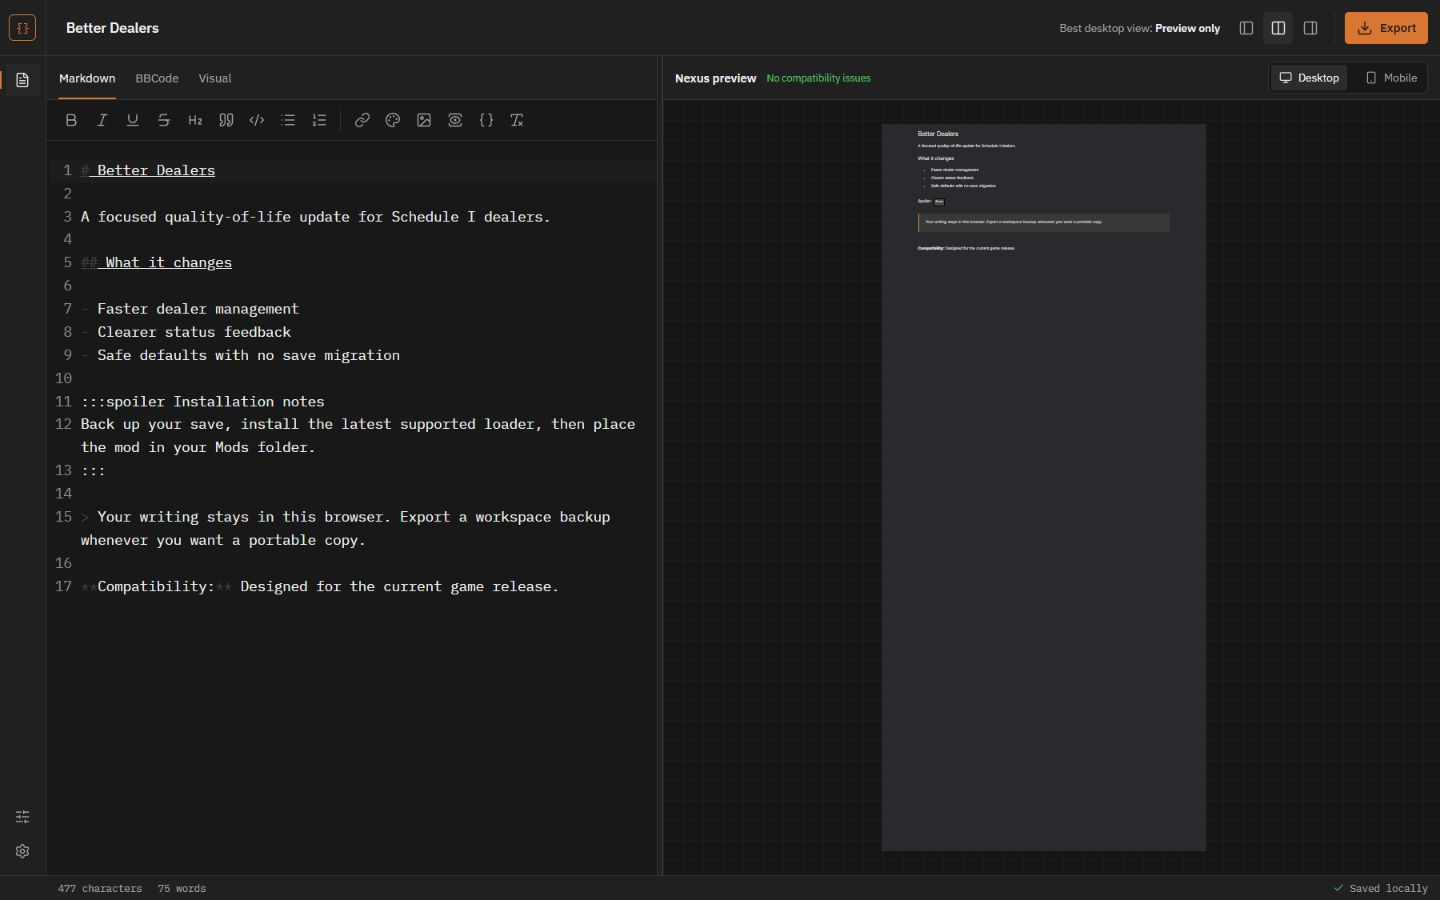
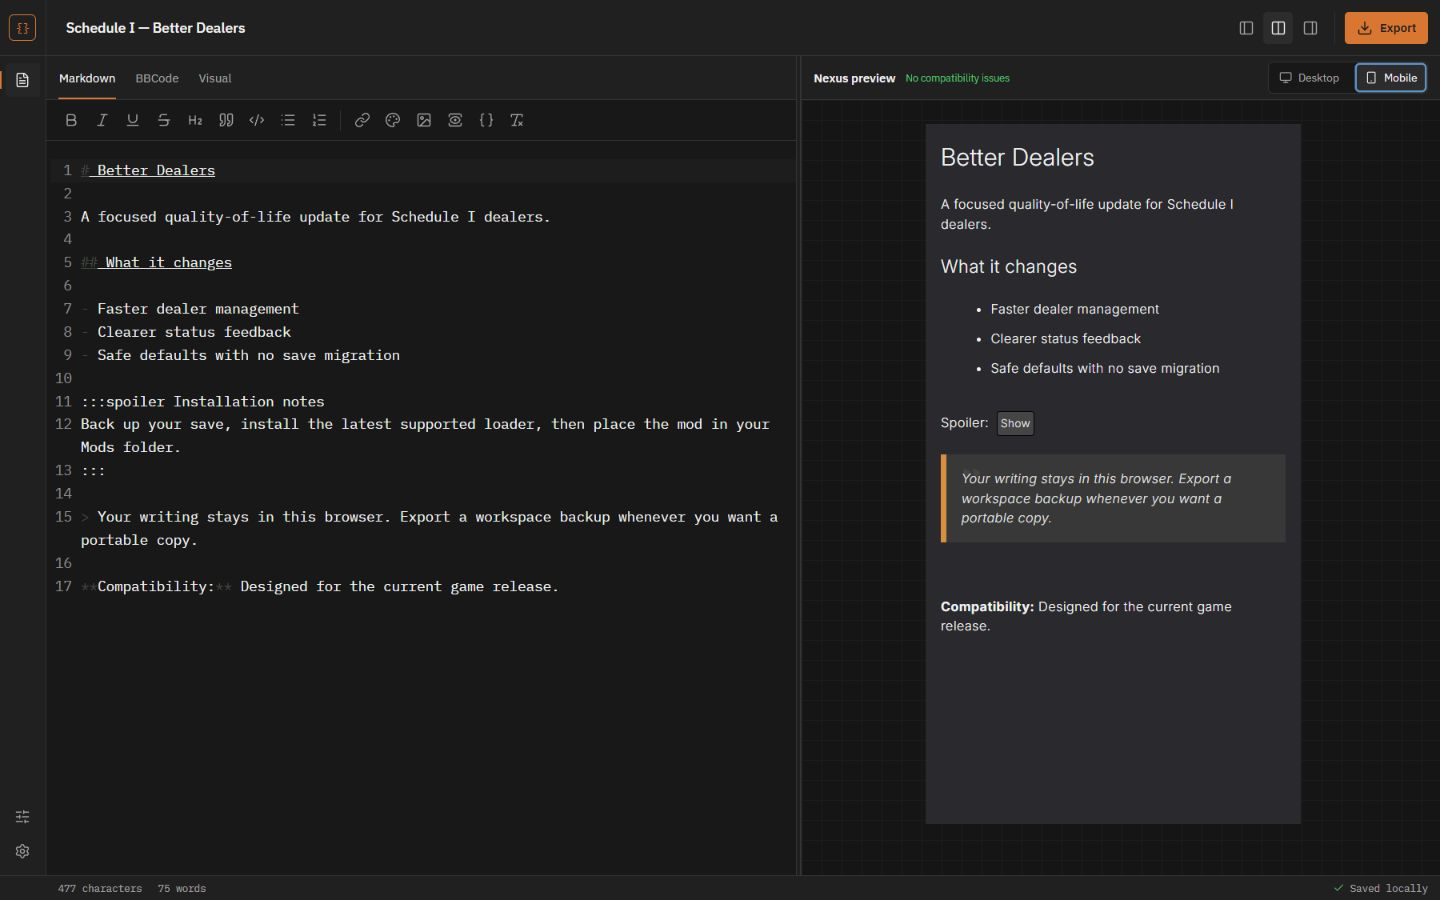
docs(readme): feature mobile preview in hero
Replace the desktop preview in the split-view hero with the more legible mobile canvas and update its accessible description.

diff --git a/README.md b/README.md
@@ -6,7 +6,7 @@ Write your mod description locally, preview how it will look on Nexus Mods, then
 
 Your drafts stay in your browser. There is no account, backend, analytics service, or cloud document storage behind the app.
 
-![Markdown editor and Nexus preview in split view](.github/assets/readme/authoring-split.png)
+![Markdown editor and Nexus mobile preview in split view](.github/assets/readme/authoring-split.png)
 
 > [!NOTE]
 > Mod Description Workbench is an independent tool. It is not affiliated with or endorsed by Nexus Mods, and it never edits or publishes a mod for you.
